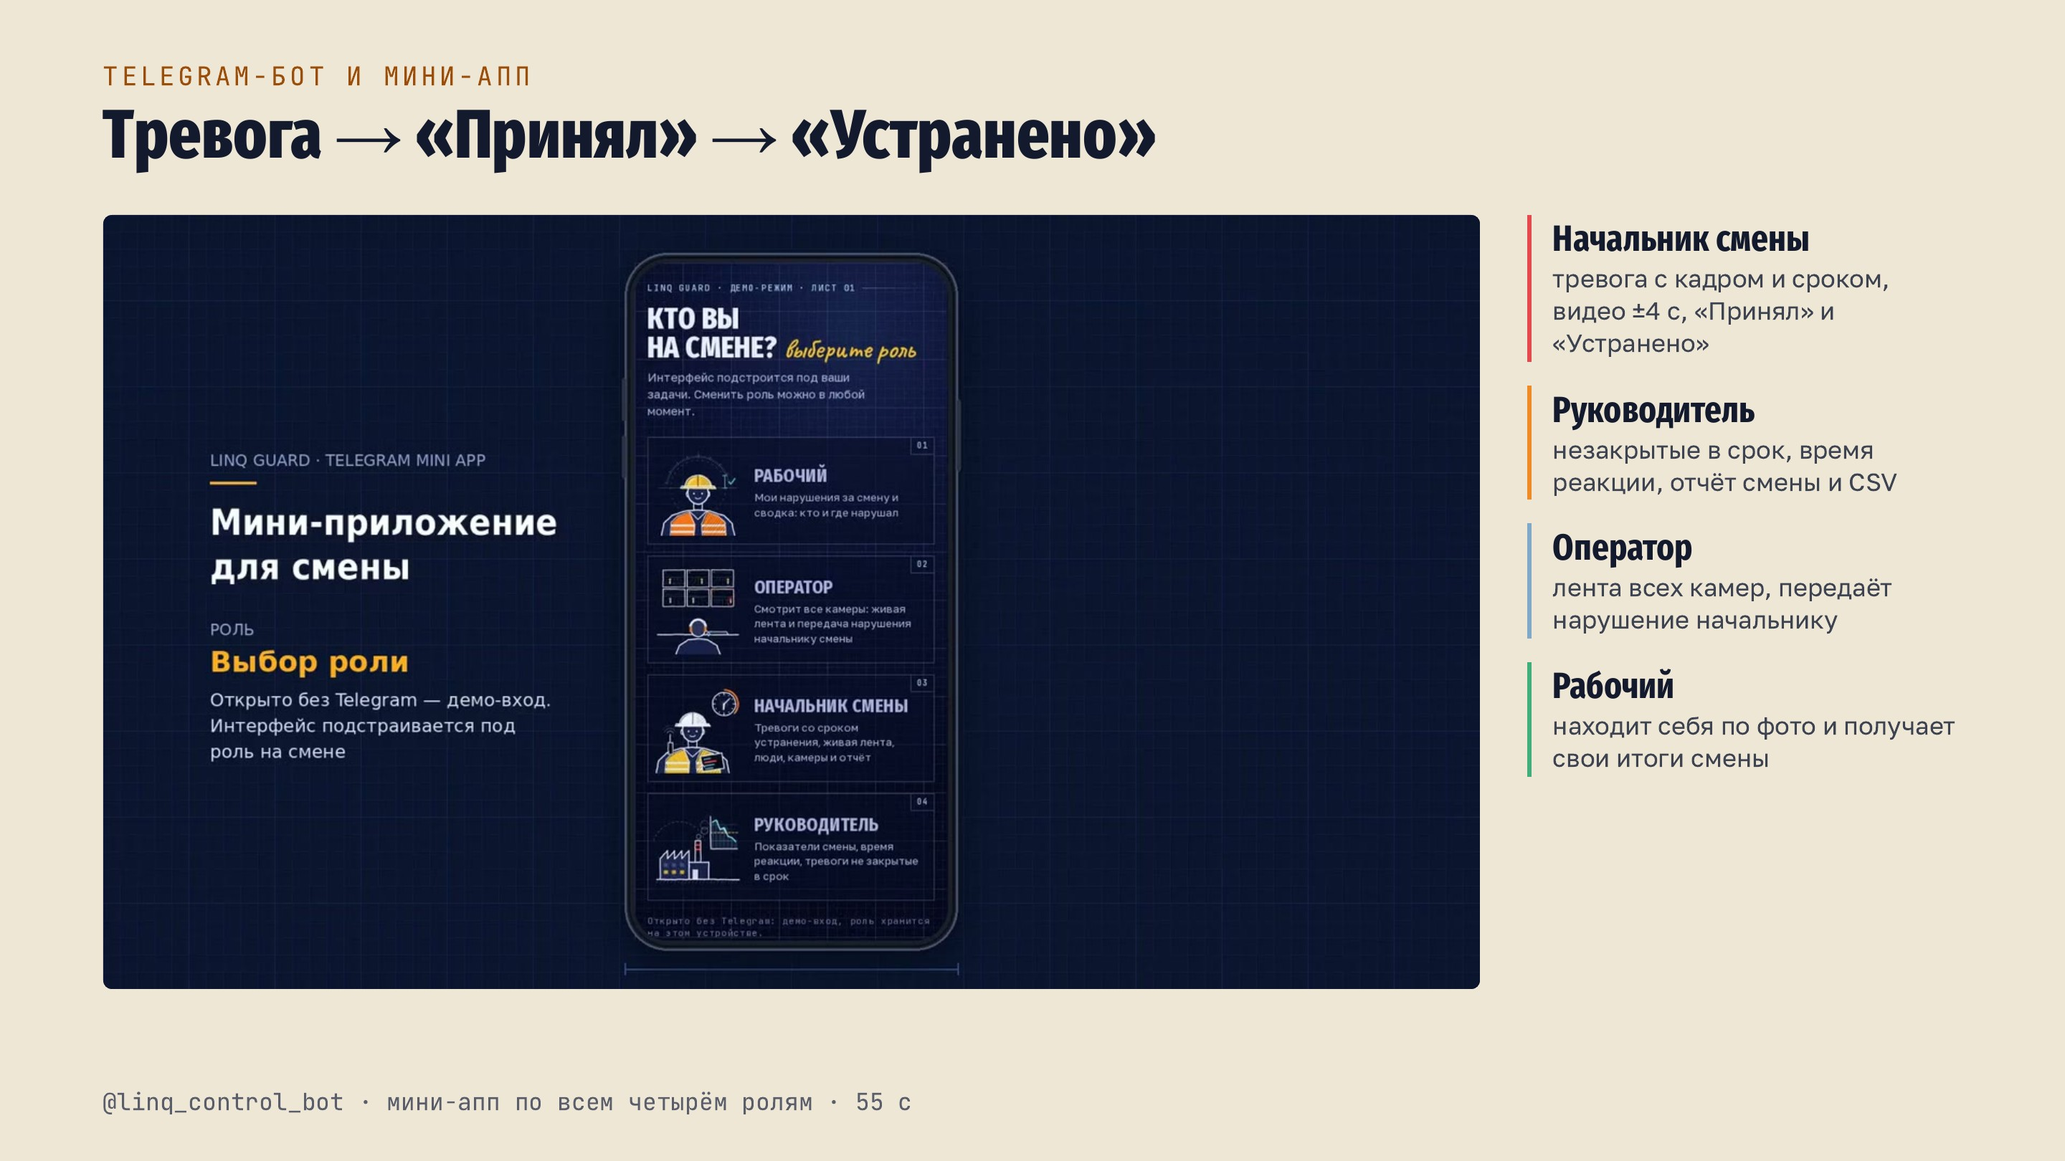
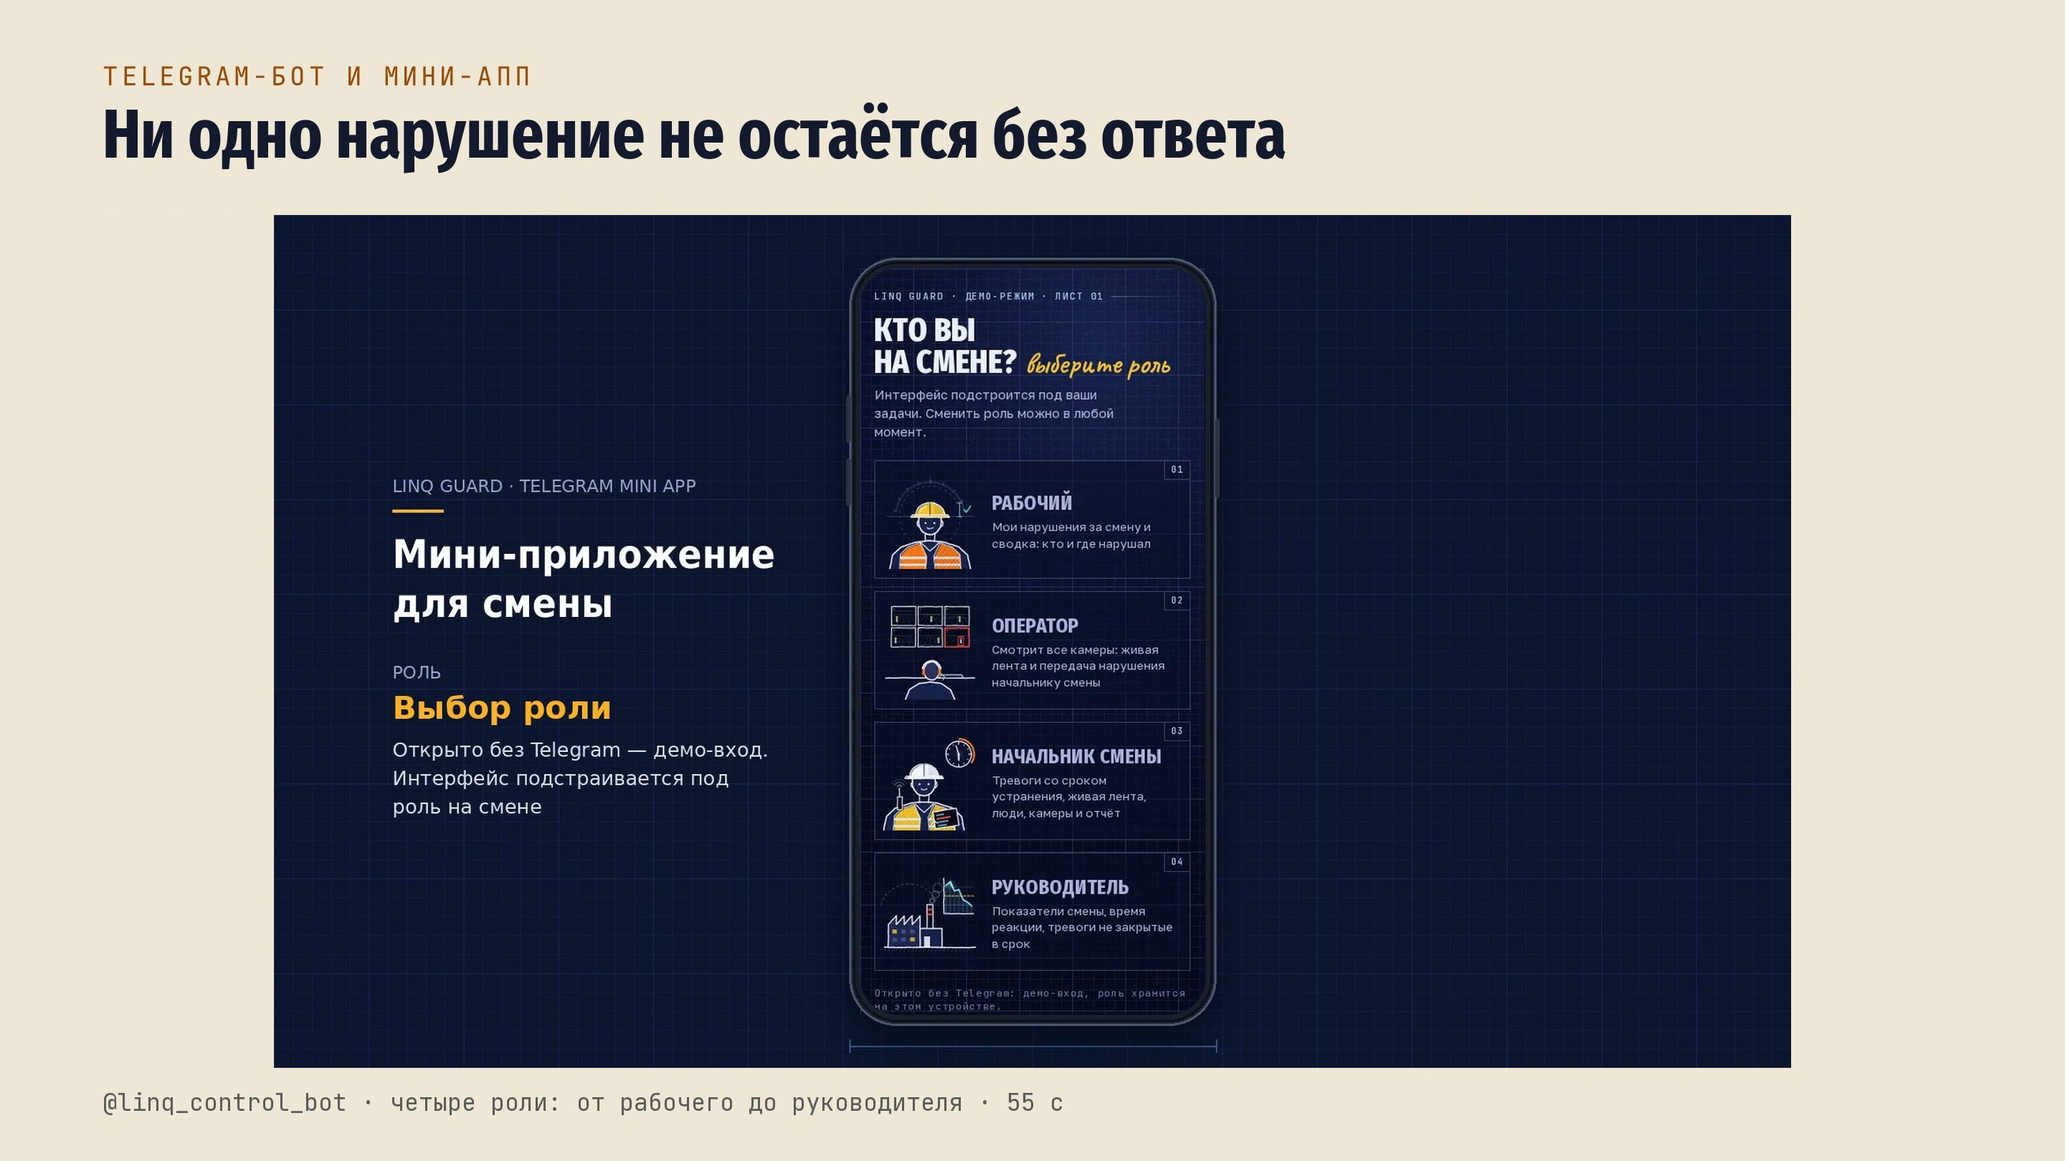
Презентация: без стрелок, слайд 6 — крупное видео без колонки ролей, ~15 камер на чип

diff --git a/index.html b/index.html
@@ -38,7 +38,7 @@
 <section data-n="3"><img src="s/3.jpg" alt="Слайд 3" draggable="false"><video src="v/film.mp4" poster="s/poster3.jpg" preload="metadata" playsinline style="left:13.33%;top:18.15%;width:73.33%;height:73.33%"></video></section>
 <section data-n="4"><img src="s/4.jpg" alt="Слайд 4" draggable="false"></section>
 <section data-n="5"><img src="s/5.jpg" alt="Слайд 5" draggable="false"></section>
-<section data-n="6"><img src="s/6.jpg" alt="Слайд 6" draggable="false"><video src="v/bot.mp4" poster="s/poster6.jpg" preload="metadata" playsinline style="left:5.00%;top:18.52%;width:66.67%;height:66.67%"></video></section>
+<section data-n="6"><img src="s/6.jpg" alt="Слайд 6" draggable="false"><video src="v/bot.mp4" poster="s/poster6.jpg" preload="metadata" playsinline style="left:13.25%;top:18.52%;width:73.47%;height:73.47%"></video></section>
 <section data-n="7"><img src="s/7.jpg" alt="Слайд 7" draggable="false"></section>
 </div>
 <div id="hud"></div>
@@ -46,7 +46,7 @@
 <div id="notes"><h4>Заметки · слайд <span id="nn"></span></h4><p id="nt"></p></div>
 <script>
 (() => {
-  const NOTES = ["LinQ Guard — видеоконтроль промышленной безопасности на ускорителе LinQ. Система сама смотрит камеры цеха, видит нарушение и сразу зовёт того, кто может его устранить: начальника смены, в Telegram, с кадром и сроком. Справа QR-код бота: можно открыть прямо сейчас и выбрать роль — начальник смены, руководитель, оператор или рабочий.", "Почему это важно. По данным Минтруда, шестьдесят пять процентов несчастных случаев на производстве связаны с человеческим фактором: человек без каски, без жилета, с телефоном в проходе, слишком близко к погрузчику. Десять лет назад таких было семьдесят четыре процента, и пострадавших за это время стало вдвое меньше — культура безопасности работает, когда нарушение замечают вовремя. Именно это и видно на камере. LinQ Guard замечает нарушение за секунды и сразу зовёт того, кто может его устранить.", "Вот как это выглядит за смену. Камеры цеха, модель видит каждого человека — это скелеты — и предметы с уверенностью: каска, голова без каски, телефон, сигарета. Нарушение подтверждается во времени, и только тогда уходит тревога начальнику смены в Telegram: карточка с кадром и сроком, «Принял», «Устранено». Десять видов нарушений: нет каски, нет жилета, телефон, пешеход у погрузчика, курение, падение, лежит без движения, бег, открытый огонь, задымление. Все рамки и тревоги — настоящие срабатывания системы.", "Перенос на ускоритель LinQ. Шесть из семи моделей работают на TPU: поза считается на чипе за восемь с половиной миллисекунд, это около ста семнадцати кадров в секунду, остальные модели — восемь–тринадцать миллисекунд. Модели одной камеры мы склеили в одну программу TPU, кадр уходит на чип один раз — это в полтора–два с половиной раза быстрее. Квантуем на кадрах наших камер и проверяем: людей TPU находит так же, как исходная модель, в девяноста восьми процентах. Каски сознательно оставили в FP32: после INT8 класс «голова без каски» почти исчезает, а точность важнее. Узкое место сейчас не чип, а общий стенд: на своём узле LinQ это реальное время.", "Что под капотом. Семь нейросетей: поза с семнадцатью точками скелета — из неё падение, неподвижное лежание, бег и дистанция до техники; наша модель касок; жилеты; погрузчики; огонь и дым с проверкой цвета пламени; сигарета; телефон. Модель касок мы дообучили: открытая находила пять процентов голов без каски, наша — восемьдесят пять, mAP 0,93 против 0,29 на отдельном тесте. Поверх моделей — десять правил, которые подтверждают нарушение во времени, чтобы на одно нарушение была одна тревога. Для камер с калибровкой пола считаем реальные метры до погрузчика и скорость бега.", "Что получает человек на заводе. Начальнику смены приходит тревога: кадр, камера, срок устранения и кнопка видео — ролик нарушения плюс-минус четыре секунды для проверки. Он нажимает «Принял», потом «Устранено» с коротким отчётом. Руководитель видит, что не закрыто в срок, время реакции каждого начальника и отчёт смены. Оператор смотрит ленту всех камер и передаёт нарушение начальнику. Рабочий находит себя по фото лица и получает свои итоги смены — без имён и фамилий.", "Камеры, которые не пишут архив, а предотвращают травмы. LinQ Guard: увидели, сообщили, устранили в срок. Код, модели, программы для LinQ и все ролики — в репозитории, QR-код на экране. Спасибо!"];
+  const NOTES = ["LinQ Guard — видеоконтроль промышленной безопасности на ускорителе LinQ. Система сама смотрит камеры цеха, видит нарушение и сразу зовёт того, кто может его устранить: начальника смены, в Telegram, с кадром и сроком. Справа QR-код бота: можно открыть прямо сейчас и выбрать роль — начальник смены, руководитель, оператор или рабочий.", "Почему это важно. По данным Минтруда, шестьдесят пять процентов несчастных случаев на производстве связаны с человеческим фактором: человек без каски, без жилета, с телефоном в проходе, слишком близко к погрузчику. Десять лет назад таких было семьдесят четыре процента, и пострадавших за это время стало вдвое меньше. Именно это и видно на камере. LinQ Guard замечает нарушение за секунды и сразу зовёт того, кто может его устранить.", "Вот как это выглядит за смену. Камеры цеха, модель видит каждого человека — это скелеты — и предметы с уверенностью: каска, голова без каски, телефон, сигарета. Нарушение подтверждается во времени, и только тогда уходит тревога начальнику смены в Telegram: карточка с кадром и сроком, «Принял», «Устранено». Десять видов нарушений: нет каски, нет жилета, телефон, пешеход у погрузчика, курение, падение, лежит без движения, бег, открытый огонь, задымление. Все рамки и тревоги — настоящие срабатывания системы.", "Перенос на ускоритель LinQ. Шесть из семи моделей работают на TPU: поза считается на чипе за восемь с половиной миллисекунд, это около ста семнадцати кадров в секунду, остальные модели — восемь–тринадцать миллисекунд. Модели одной камеры мы склеили в одну программу TPU, кадр уходит на чип один раз — это в полтора–два с половиной раза быстрее. Квантуем на кадрах наших камер и проверяем: людей TPU находит так же, как исходная модель, в девяноста восьми процентах. Каски сознательно оставили в FP32: после INT8 класс «голова без каски» почти исчезает, а точность важнее. Узкое место сейчас не чип, а общий стенд: очередь и сеть. На своём сервере с LinQ это реальное время, около пятнадцати камер на чип при пяти кадрах в секунду.", "Что под капотом. Семь нейросетей: поза с семнадцатью точками скелета — из неё падение, неподвижное лежание, бег и дистанция до техники; наша модель касок; жилеты; погрузчики; огонь и дым с проверкой цвета пламени; сигарета; телефон. Модель касок мы дообучили: открытая находила пять процентов голов без каски, наша — восемьдесят пять, mAP 0,93 против 0,29 на отдельном тесте. Поверх моделей — десять правил, которые подтверждают нарушение во времени, чтобы на одно нарушение была одна тревога. Для камер с калибровкой пола считаем реальные метры до погрузчика и скорость бега.", "Ни одно нарушение не остаётся без ответа. Начальнику смены приходит тревога: кадр, камера, срок устранения и кнопка видео — ролик нарушения плюс-минус четыре секунды для проверки. Он нажимает «Принял», потом «Устранено» с коротким отчётом. Руководитель видит, что не закрыто в срок, время реакции каждого начальника и отчёт смены. Оператор смотрит ленту всех камер и передаёт нарушение начальнику. Рабочий находит себя по фото лица и получает свои итоги смены — без имён и фамилий.", "Камеры, которые не пишут архив, а предотвращают травмы. LinQ Guard: увидели, сообщили, устранили в срок. Код, модели, программы для LinQ и все ролики — в репозитории, QR-код на экране. Спасибо!"];
   const slides = Array.from(document.querySelectorAll('section'));
   const hud = document.getElementById('hud');
   let cur = -1;
